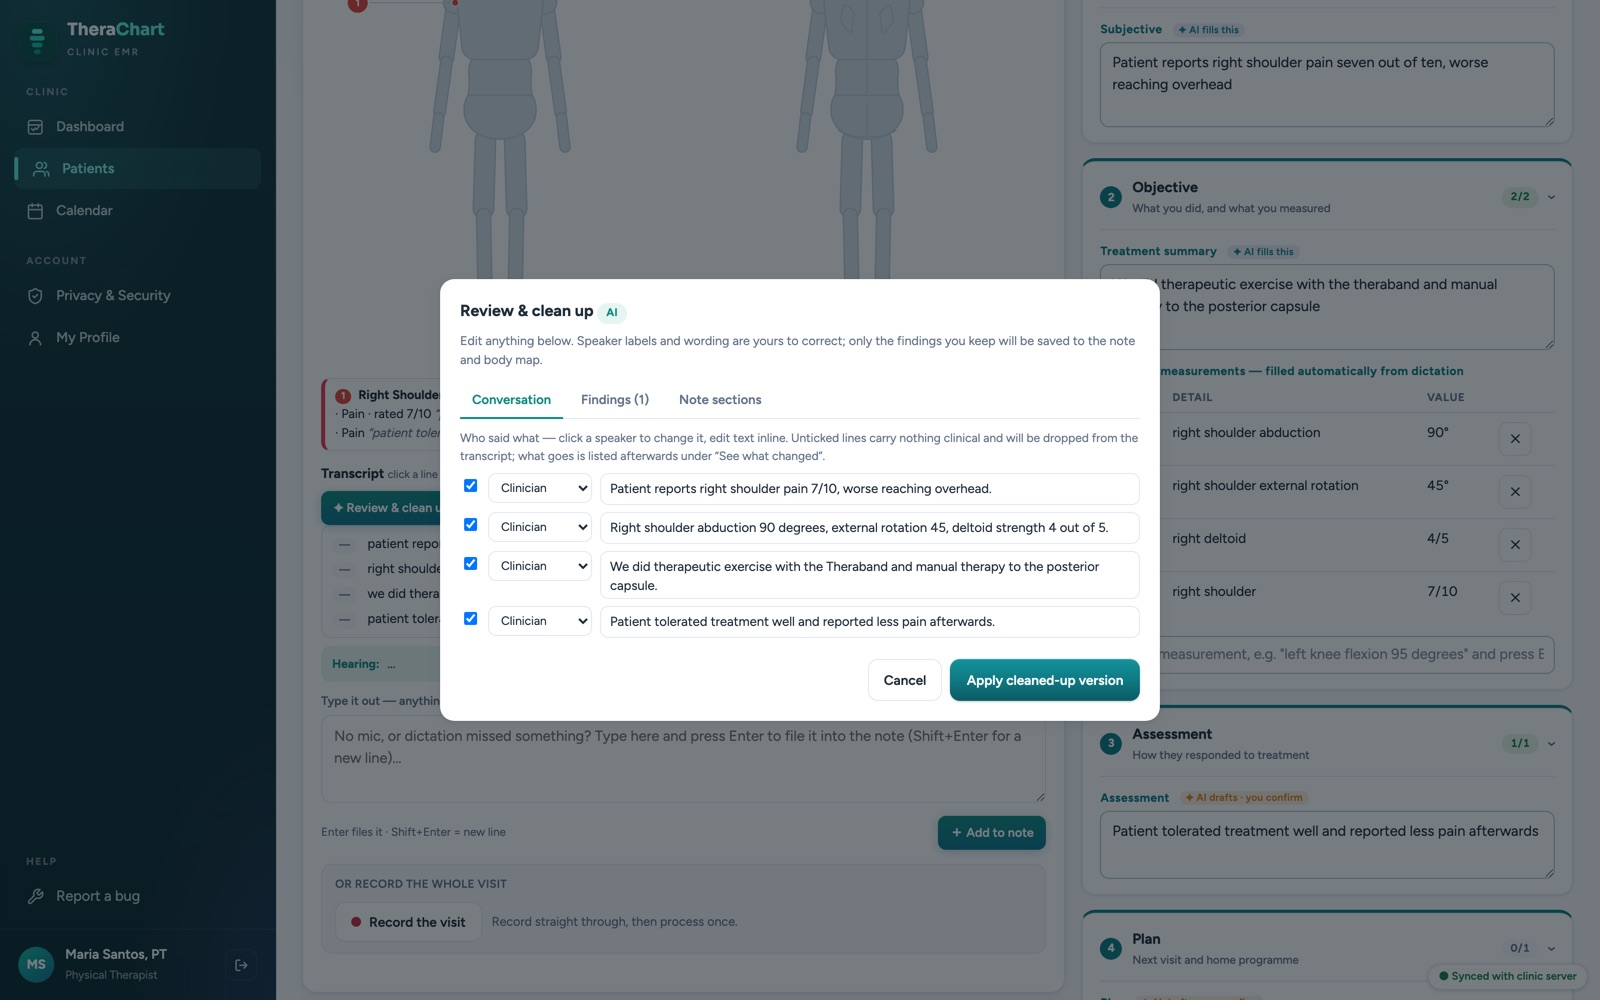
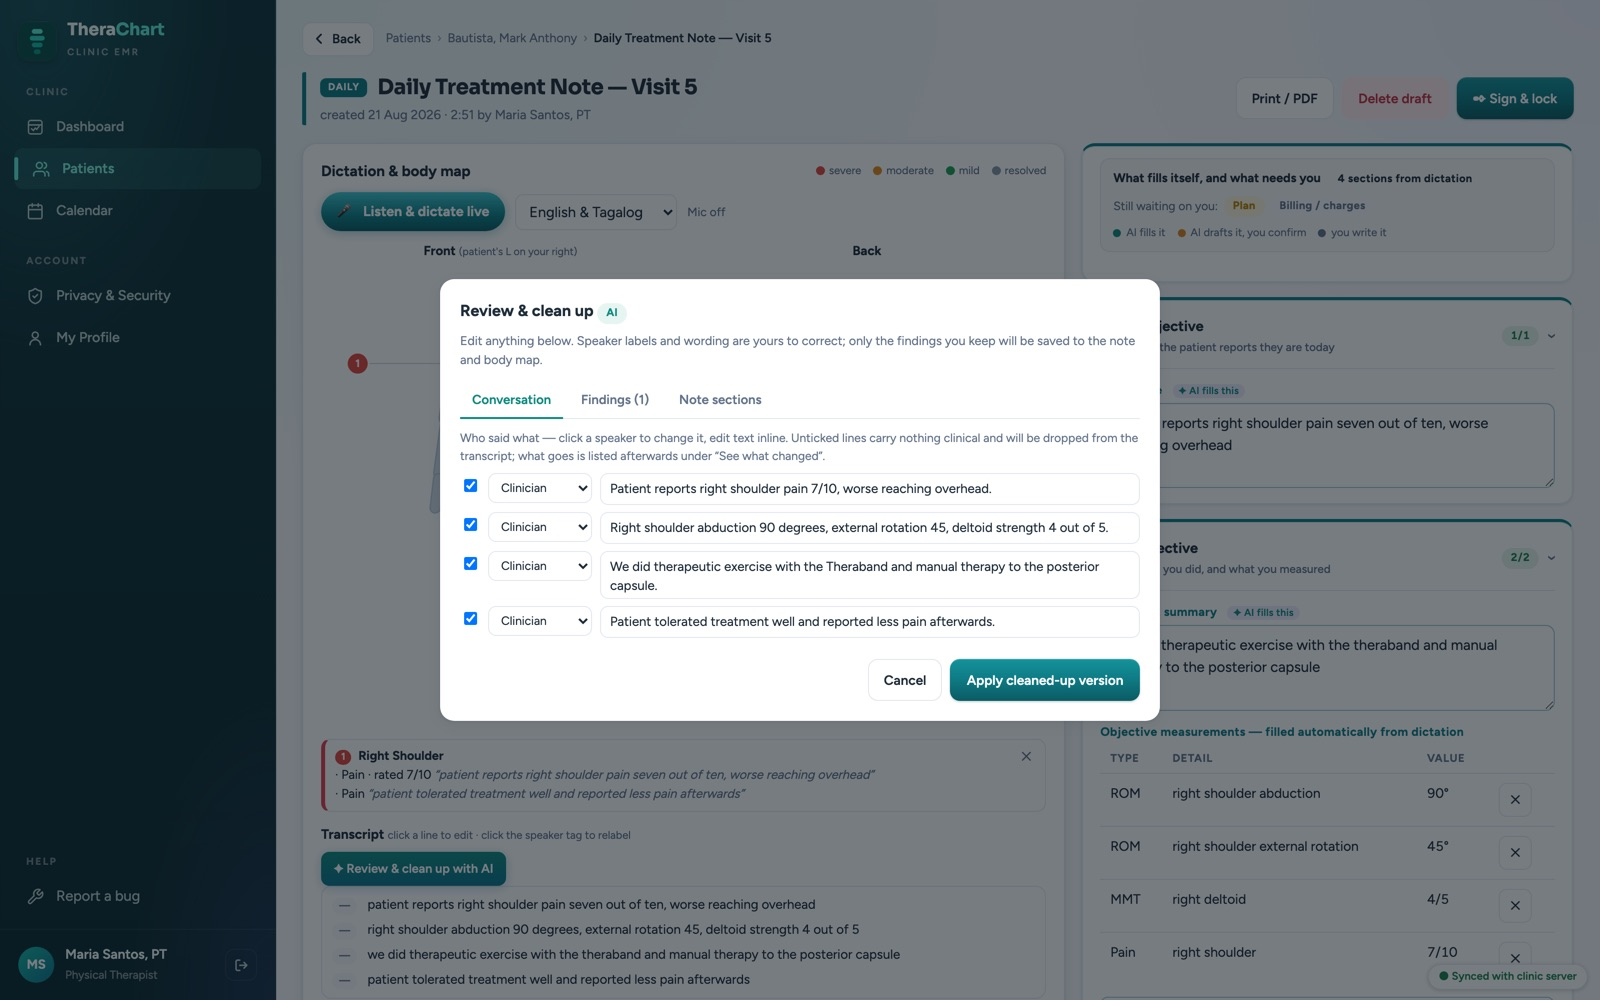
Make a bypassed stub fail loudly instead of taking the wrong photograph
therachart-8e spotted a trap in the harness and it is a real one. server.js
builds its Gemini options as `vertexConfigured() ? {vertex...} : {base:
GEMINI_BASE...}` — Vertex is tested FIRST, and GEMINI_BASE_URL only reaches the
client on the else branch. vertexConfigured() needs GEMINI_VERTEX, GCP_PROJECT
and a credential source, and the GCP_ACCESS_TOKEN this harness sets to make
Speech-to-Text report configured already satisfies the third. So a single
variable — GEMINI_VERTEX, the other obvious lever for that same goal — stands
between this script and bypassing its own stub to call real Vertex with a fake
token.

The failure that produces is the bad kind: quiet. The call fails, the review
modal never opens, and the harness sits on a selector for thirty seconds before
reporting a timeout that says nothing about why. I set the trap deliberately to
see what it looked like, and it sent me straight to the wrong suspect.

Two changes. The stub now counts requests, and shot 07 asserts its click
actually reached it — checked BEFORE waiting on the modal, since a bypassed
stub means no modal is coming and waiting first buries the cause. The error
names the variable and the precedence rule that caused it. Verified by setting
GEMINI_VERTEX=1 and watching it fail in under a second with that sentence
instead of after thirty with a selector timeout.

The point is not the variable, which a comment would have covered. It is that
[…]

diff --git a/tools/capture-screenshots.js b/tools/capture-screenshots.js
@@ -86,8 +86,10 @@ const REFINE_FIXTURE = path.join(ROOT, "test", "eval", "fixtures", "refine-respo
 
 function startAiStub() {
   const body = fs.readFileSync(REFINE_FIXTURE, "utf8");
+  let hits = 0;
   return new Promise((resolve) => {
     const srv = http.createServer((req, res) => {
+      hits += 1;
       req.resume(); // drain the prompt; we answer the same way regardless
       req.on("end", () => {
         res.writeHead(200, { "content-type": "application/json" });
@@ -96,6 +98,7 @@ function startAiStub() {
     });
     srv.listen(0, "127.0.0.1", () => resolve({
       port: srv.address().port,
+      hits: () => hits,
       stop: () => new Promise((r) => srv.close(r)),
     }));
   });
@@ -110,6 +113,8 @@ function startAiStub() {
 
 // the note built for shots 05-07, shared so the parser only runs once
 let builtDocId = null;
+// set once the run starts, so shot 07 can prove its review came from the stub
+let aiStub = null;
 
 const sleep = (ms) => new Promise((r) => setTimeout(r, ms));
 
@@ -263,7 +268,22 @@ const SHOTS = [
     async act(page, base) {
       if (!builtDocId) await buildDictatedNote(page, base);
       else await goHash(page, `#/doc/${builtDocId}`);
+      const before = aiStub ? aiStub.hits() : 0;
       await page.click("#refineBtn");
+      /* Check the stub was reached BEFORE waiting on the modal. If the stub has
+         been bypassed the modal never opens at all, so waiting first turns a
+         precise cause into a thirty-second timeout on a selector — which is
+         what it looked like the first time, and sent me looking at the wrong
+         thing entirely. */
+      if (aiStub) {
+        for (let i = 0; i < 40 && aiStub.hits() === before; i++) await sleep(150);
+        if (aiStub.hits() === before) {
+          throw new Error(
+            "the AI call never reached the stub — the review in this shot would not be the fixture. " +
+            "Most likely GEMINI_VERTEX is set: server.js checks vertexConfigured() before GEMINI_BASE_URL, " +
+            "so Vertex silently wins. See the comment on the env block below.");
+        }
+      }
       /* Wait for the REVIEW modal specifically. `.modal` alone matches the bug
          reporter, which is always in the DOM (hidden), and the progress modal
          that runRefine shows first — so the wait passed before there was
@@ -502,11 +522,23 @@ function toJpeg(src, dest, w, h) {
      the stub on loopback, and nothing in a headless capture opens a microphone,
      so no Speech-to-Text request is ever made. GCS stays blank — nothing here
      photographs an attachment. */
-  const stub = await startAiStub();
+  const stub = aiStub = await startAiStub();
   const server = await startServer({
     THERACHART_DEMO_LOGINS: "1",
     GEMINI_API_KEY: "screenshot-stub-key-not-a-real-credential",
     GEMINI_BASE_URL: `http://127.0.0.1:${stub.port}/v1beta`,
+    /* These two exist ONLY to make Speech-to-Text report as configured.
+
+       DO NOT add GEMINI_VERTEX=1 here. server.js builds its Gemini options as
+       `vertexConfigured() ? {vertex...} : {base: GEMINI_BASE...}` — Vertex is
+       checked FIRST, and GEMINI_BASE_URL only reaches the client on the else
+       branch. vertexConfigured() is GEMINI_VERTEX && GCP_PROJECT &&
+       sttCredentialSource(), and GCP_ACCESS_TOKEN below already satisfies the
+       third. So GEMINI_VERTEX is the single variable standing between this
+       harness and silently bypassing the stub to call real Vertex with a fake
+       token — which fails, falls to the unavailable dialog, and photographs
+       the wrong screen with nothing in the output to say why. The assertion in
+       shot 07 is there to make that loud rather than silent. */
     GCP_PROJECT: "therachart-screenshot-harness",
     GCP_ACCESS_TOKEN: "screenshot-stub-token-not-a-real-credential",
   });
